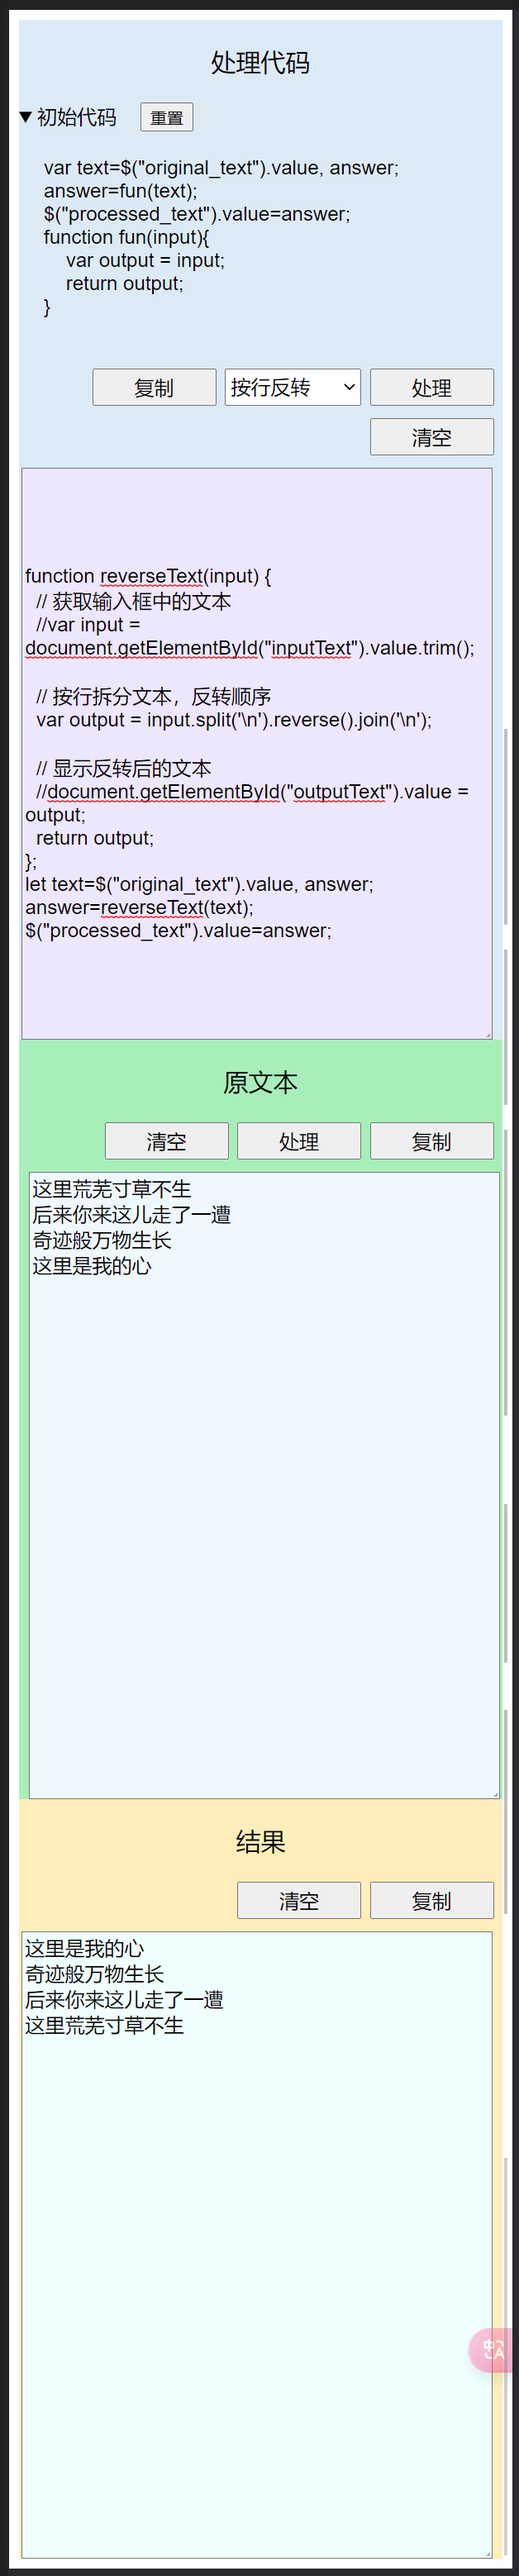
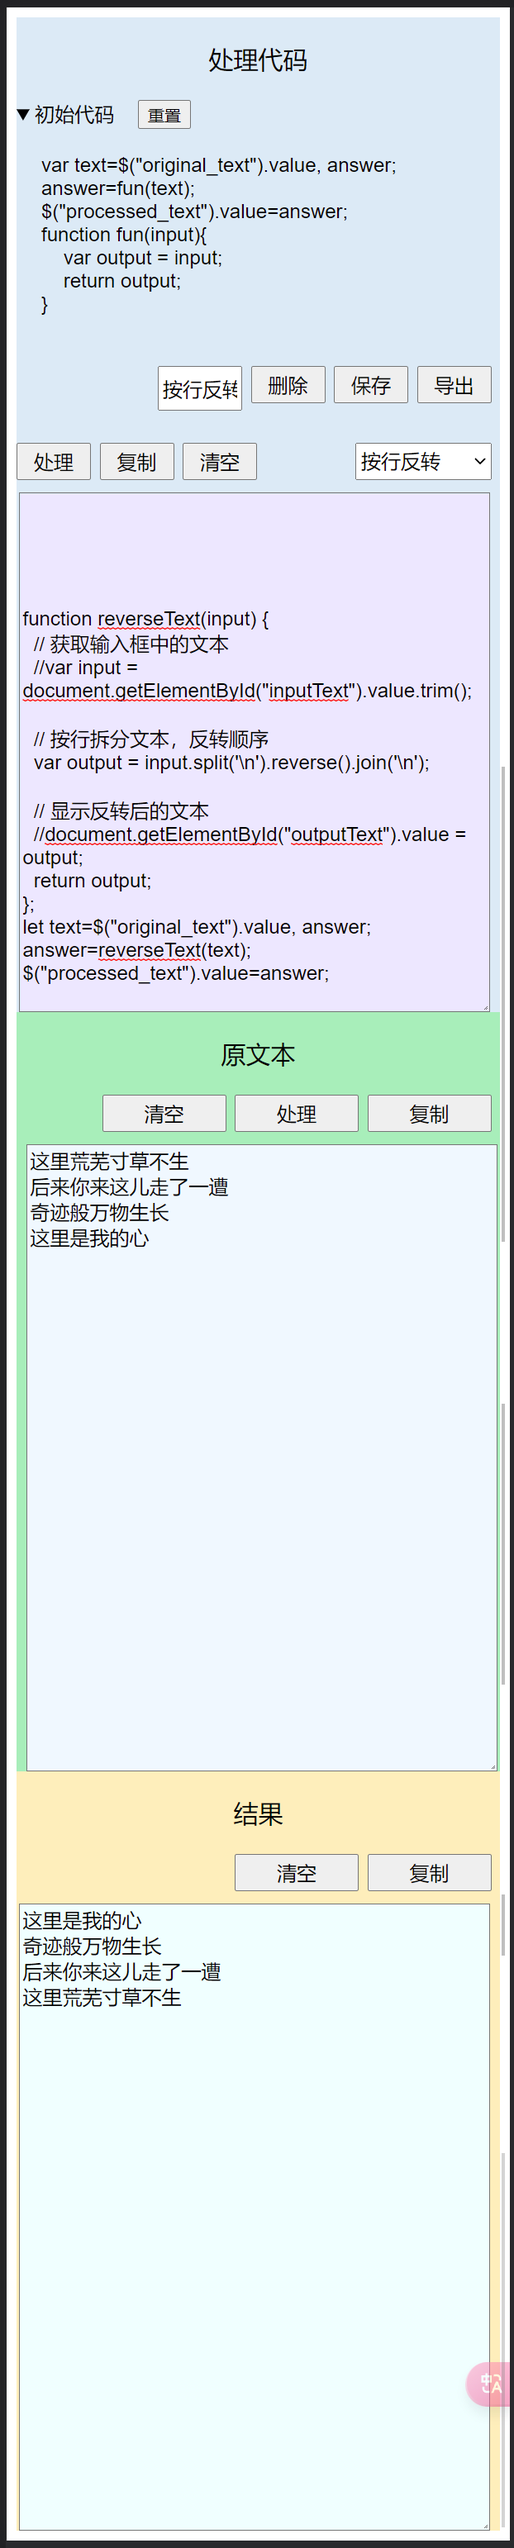
增加自定义函数保存到localStorage功能

Changed region(s): [[0.0, 0.0, 1.0, 0.9961], [0.5193, 0.0623, 0.7637, 0.0934], [0.3971, 0.0, 0.6109, 0.0311]]

diff --git a/index.html b/index.html
@@ -5,19 +5,12 @@
 <meta name="viewport" content="width=device-width"/>
 <title>文本处理</title>
 <style type="text/css">
-@media screen and (max-width: 600px) {
-  #all {width: 100% !important;display: flex;flex-direction: column;}
-  #code_div,#original_div,#processed_div {width: 100% !important;}
-  #code_text,#original_text,#processed_text {width: calc(100% - 16px) !important;}
-}
-@media screen and (min-width: 601px) {
-}
 p {margin:20px;padding:0;text-align:center;font:20px Arial;}
 #all {width:1500px;overflow:hidden;}
 #code_div {width:500px;background-color:rgb(220, 234, 246);float:left;}
 #original_div {width:500px;background-color:#aeb;float:left;}
 #processed_div {width:500px;background-color:#feb;float:left;}
-#code_text{width:480px;height:455px;background-color:rgb(236, 231, 255);margin-right: 8px;float:right;font:16px Arial;}
+#code_text{width:480px;height:413px;background-color:rgb(236, 231, 255);margin-right: 8px;float:right;font:16px Arial;}
 #original_text{width:480px;height:500px;background-color:aliceblue;margin-left: 8px;float:left;font:16px Arial;}
 #processed_text{width:480px;height:500px;background-color:azure;margin-right: 8px;float:right;font:16px Arial;}
 #code_process,#code_clear{width:100px;height:30px;float:right;margin-right:7px;margin-bottom:10px;font:16px Arial;}
@@ -25,6 +18,18 @@ p {margin:20px;padding:0;text-align:center;font:20px Arial;}
 #original_process,#original_sel,#original_clear{width:100px;height:30px;float:right;margin-right:7px;margin-bottom:10px;font:16px Arial;}
 #processed_sel,#processed_clear,#original_copy,#processed_copy,#code_copy{width:100px;height:30px;float:right;margin-right:7px;margin-bottom:10px;font:16px Arial;}
 .init{text-align: left;font:16px Arial;}
+#export,#save,#name,#delete{width:100px;height:30px;float:right;margin-right:7px;margin-bottom:10px;font:16px Arial;}
+br.mobile-br {display: none;}
+@media screen and (max-width: 600px) {
+  #all {width: 100% !important;display: flex;flex-direction: column;}
+  #code_div,#original_div,#processed_div {width: 100% !important;}
+  #code_text,#original_text,#processed_text {width: calc(100% - 16px) !important;}
+  #export,#save,#name,#delete{width:60px;height:30px;float:auto;margin-right:7px;margin-bottom:10px;font:16px Arial;}
+  #code_process,#code_clear,#code_copy{width:60px;height:30px;float:left;margin-right:7px;margin-bottom:10px;font:16px Arial;}
+  br.mobile-br {display: inline;}
+}
+@media screen and (min-width: 601px) {
+}
 </style>
 </head>
 <body>
@@ -43,13 +48,15 @@ p {margin:20px;padding:0;text-align:center;font:20px Arial;}
             }<br>
         </p>
       </details><br>
+      
+      <button id='export' onclick='"还没开发，但是这里不放个按钮对齐又乱了"'>导出</button>
+      <button id='save' onclick='save_method()'>保存</button>
+      <button id='delete' onclick='delete_method()'>删除</button>
+      <input id='name'><br><br><br class="mobile-br"><!-- 不加mobile-br手机上'处理'按钮不对齐(较高)；改为float:left也是为了对齐 -->
       <button id='code_process' onclick="runCode()">处理</button>
       <select id="code_sel" onchange="change_fun(this)">
         <option><选择方法></option>
-        <option>按行反转</option>
-        <option>统计单词</option>
-        <option>提取网址</option>
-        <option>小红书换行</option>
+        <option id="new_method">+新建方法+</option>
       </select>
       <button id='code_copy' onclick='code_text.select();document.execCommand("Copy");'>复制</button>
       <button id='code_clear' onclick='$("code_text").value="";$("code_text").focus();'>清空</button>
@@ -71,23 +78,129 @@ p {margin:20px;padding:0;text-align:center;font:20px Arial;}
   </div>
   <script>
     "use strict";
+    //加载localStorage中的数据
+    var data = JSON.parse(localStorage.getItem('little-text-tool'));
+    if(data && data['methods']){
+        console.log('从localStorage加载');
+        var codes=data['methods'];
+    }
+    else{
+        //如果没有就用原始的函数
+        console.log('用默认的函数');
+        var codes=get_original_dict();
+    }
+    //把这些函数名更新到选项中
+    for (let [key, value] of Object.entries(codes)) {
+        console.log(key, value);
+        var selectElement = document.getElementById("code_sel");
+        var newOption = document.createElement("option");
+        newOption.value = key;
+        newOption.text = key;
+        selectElement.insertBefore(newOption, $('new_method'));
+    }
+
     function $(s) {
       return document.getElementById(s) ? document.getElementById(s) : s;
-		}
+	  }
     function runCode() {
       const code = document.getElementById('code_text').value;
       eval(code);
     };
-    const runBtn = document.getElementById('code_process');
-    runBtn.addEventListener('click', () => {
-      runCode();
-    });
     function change_fun(sel){
-      console.log('进入 '+sel.value+sel.selectedIndex);
-      $('code_text').value=codes[sel.selectedIndex];
+      //改变选项
+      console.log('进入 '+sel.value+',Index='+sel.selectedIndex);
+      if(sel.value=='<选择方法>'){
+        console.log('回到初始状态');
+        $('name').value='<选择方法>';
+        $('code_text').value='';
+        return;
+      }
+      if(sel.value=='+新建方法+'){
+        console.log('正则自定义函数');
+        var new_name='未命名';
+        while(new_name in codes){
+            new_name=updateString(new_name);
+        }
+        $('name').value=new_name;
+        $('code_text').value='';
+        return;
+      }
+      $('name').value=sel.value;
+      $('code_text').value=codes[sel.value];
     }
-    let codes=['',
-`
+
+    function save_method(){
+        let key=$('name').value;
+        let value=$('code_text').value;
+        //如果已经存在同名函数
+        if(key in codes){
+          alert('存在同名函数');
+          return;
+        }
+        if(key=='+新建方法+' || key=='<选择方法>' || key==''){
+          alert('该名字不可用');
+          return;
+        }
+        codes[key]=value;
+        //如果选项和命名不同，新增方法
+        if($('code_sel').value!=key){
+            var selectElement = document.getElementById("code_sel");
+            var newOption = document.createElement("option");
+            newOption.value = key;
+            newOption.text = key;
+            selectElement.insertBefore(newOption, $('new_method'));
+            //新增时就选中该选项
+            selectElement.selectedIndex = selectElement.options.length - 2;
+        }
+        //保存到localStorage
+        var obj = { methods: codes };
+        localStorage.setItem('little-text-tool', JSON.stringify(obj));
+    }
+
+    function delete_method(){
+      let key=$('name').value;
+      //选项和命名相同才能删除
+      if($('code_sel').value==key){
+          delete codes[key];
+          // 假设你的<select>元素的ID是"mySelect"
+          var selectElement = document.getElementById("code_sel");
+          // 遍历<select>的所有<option>元素
+          for (var i = 0; i < selectElement.options.length; i++) {
+              // 检查<option>元素的值是否为"a"
+              if (selectElement.options[i].value === key) {
+                  // 如果是，则从<select>元素中删除该<option>元素
+                  selectElement.options[i].remove();
+                  break; // 如果只需要删除一个值，删除后即可退出循环
+              }
+          }
+      }
+      else{
+          alert('名称和选项不同，删除失败。')
+      }
+      //保存到localStorage
+      var obj = { methods: codes };
+      localStorage.setItem('little-text-tool', JSON.stringify(obj));
+    }
+
+    function updateString(str) {
+        //如果xx以(数字)结尾，把该数字加一，否则在末尾加(1)
+        // 正则表达式匹配以(数字)结尾的字符串
+        var match = str.match(/\((\d+)\)$/);
+        if (match) {
+            // 如果匹配到，取出数字并加一
+            var number = parseInt(match[1], 10) + 1;
+            // 替换原字符串中的数字
+            return str.slice(0, -match[1].length-1) + number + ')';
+        } else {
+            // 如果没有匹配到，直接在末尾加上(1)
+            return str + "(1)";
+        }
+    }
+
+
+    function get_original_dict(){
+        return {
+    '按行反转':`
 function reverseText(input) {
   // 获取输入框中的文本
   //var input = document.getElementById("inputText").value.trim();
@@ -103,7 +216,7 @@ let text=$("original_text").value, answer;
 answer=reverseText(text);
 $("processed_text").value=answer;
 `,
-`
+    '统计单词':`
 const text=$("original_text").value;
 let dict={},array=[],answer='';
 text.split('\\n').map(x=>x.trim().split(/[，、。,\. ]/)).forEach(x=>x.forEach(y=>y?y in dict?dict[y]+=1:dict[y]=1:''));
@@ -115,7 +228,7 @@ array.forEach(x=>answer+=x[0]+': '+x[1]+'\\n');
 $("processed_text").value=answer;
 //split(/\W/)
 `,
-`
+    '提取网址':`
 let text=$("original_text").value, answer='';
 // 匹配HTTP或HTTPS开头的链接
 const linkRegex =/(?:http(s)?:\\/\\/)?[\\w.-]+(?:\\.[\\w\\.-]+)+[\\w\\-\\._~:/?#[\\]@!\\$&'\\*\\+,;=.]+/gi;
@@ -130,12 +243,13 @@ answer='no links';
 }
 $("processed_text").value=answer;
 `,
-`
+    '小红书换行':`
 let text=$("original_text").value, answer;
 answer=text.replace(/\\n/g, '&#10;');
 $("processed_text").value=answer;
 `
-    ];
+        };
+    }
   </script>
 </body>
 </html>

diff --git a/README.md b/README.md
@@ -8,9 +8,9 @@ github地址: https://github.com/vectorg/little-text-tool/
 
 ![效果](image.png)
 
-网页分为三栏，左边是要处理的文本，中间是处理的结果，右边是用来处理文本的代码。代码可以直接修改，有几个处理工具可以切换。
+网页分为三栏，左边是要处理的文本，中间是处理的结果，右边是用来处理文本的代码。代码可以直接修改，有几个处理函数可以切换。
 
-文本框的上方有清空、复制按钮可以使用。
+可以自定义处理函数并保存。点击"+新建方法+"，写好处理代码，在上方输入框中添加代码名称，点击保存，代码会被保存到localStorage中。下次打开网页时，会自动从localStorage中加载代码。
 
 在手机上三栏纵向显示：
 
